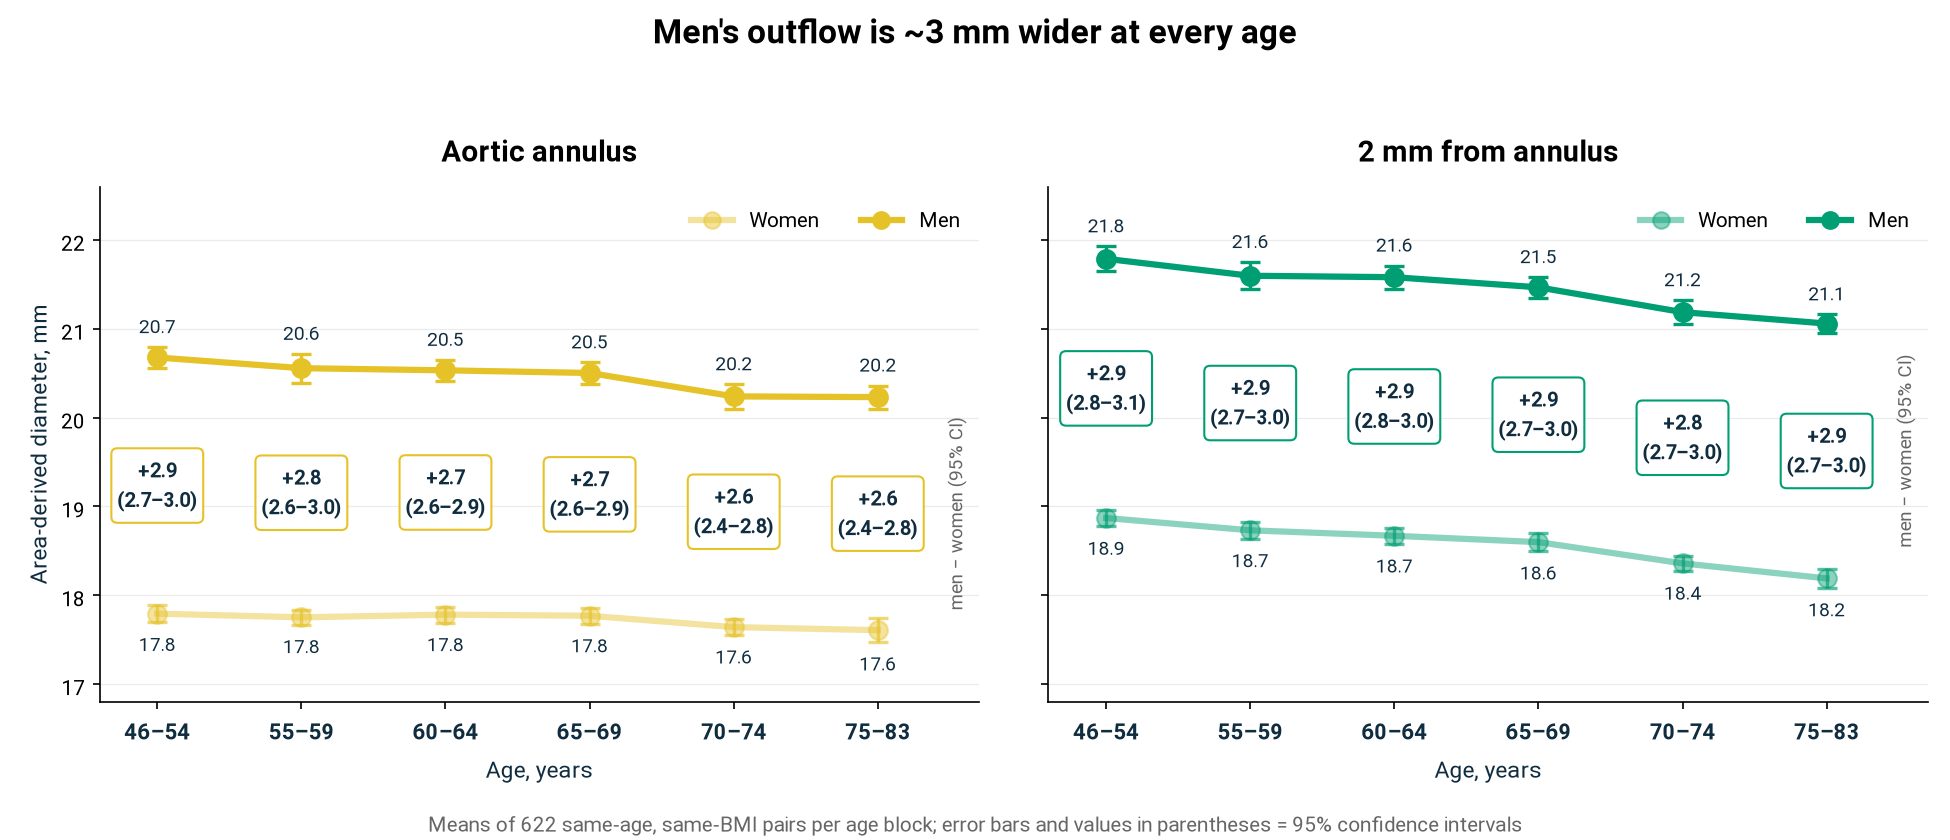
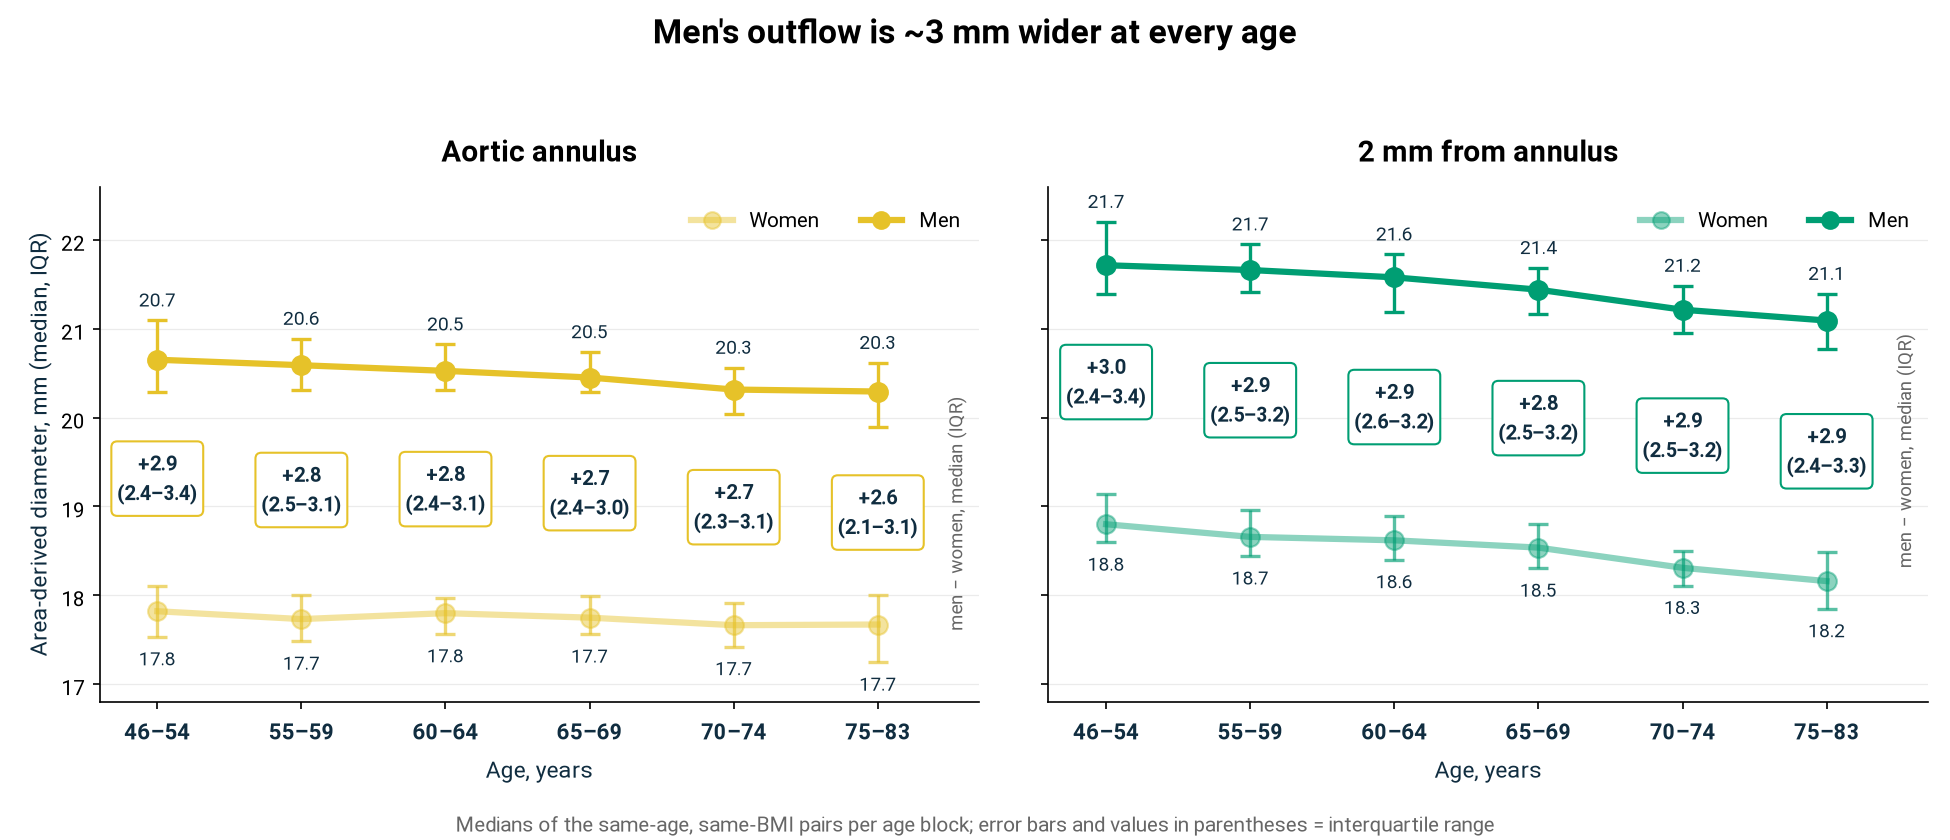
Size-by-age figure: median and IQR instead of mean and 95% CI

diff --git a/scripts/13_size_by_age_figure.py b/scripts/13_size_by_age_figure.py
@@ -1,8 +1,8 @@
 """STEP 6.10 — Annulus and LVOT (2 mm) diameter by age block, women vs men, in the house figure style.
 
-Same data as deck slide 6: mean area-derived diameter of the common-support pairs (same age and BMI in
-both sexes) per age block. Error bars = 95% CI of each sex's mean (t-based, over the pairs in the block, from
-lvot_all.csv); labels = paired men - women difference with its 95% CI (sexdiff_by_age_block.csv).
+Common-support pairs (same age and BMI in both sexes) per age block, from lvot_all.csv:
+points = median area-derived diameter per sex, error bars = interquartile range (25th-75th percentile);
+labels = median (IQR) of the paired men - women differences.
 Style: Roboto (assets/fonts), level colours (annulus yellow, 2 mm green), women lighter, men darker.
 Output: outputs/figures/analysis/fig_size_by_age.png
 Usage: python scripts/13_size_by_age_figure.py
@@ -15,7 +15,6 @@ matplotlib.use("Agg")
 import matplotlib.pyplot as plt
 import numpy as np
 import pandas as pd
-from scipy import stats
 from matplotlib import font_manager
 from matplotlib.lines import Line2D
 
@@ -36,32 +35,39 @@ P = L[L.sex == "F"].merge(L[L.sex == "M"], on=["age", "bmi"], suffixes=("_F", "_
 BLOCKS = [tuple(map(int, b.split("-"))) for b in B[B.measure == "ao_d_area"].age_block]
 
 
-def block_ci(m, sx):
-    """Mean and 95% CI half-width per age block, over the common-support pairs with both values present."""
-    out = []
+def block_stats(m):
+    """Per age block: median and IQR of each sex, and median (IQR) of the paired men - women difference."""
+    rows = []
     for lo, hi in BLOCKS:
-        q = P[(P.age >= lo) & (P.age <= hi)][[f"{m}_F", f"{m}_M"]].dropna()[f"{m}_{sx}"]
-        out.append((q.mean(), stats.t.ppf(.975, len(q) - 1) * q.std(ddof=1) / np.sqrt(len(q))))
-    return np.array(out)
+        q = P[(P.age >= lo) & (P.age <= hi)][[f"{m}_F", f"{m}_M"]].dropna()
+        dif = q[f"{m}_M"] - q[f"{m}_F"]
+        r = {"n": len(q)}
+        for sx in "FM":
+            r[f"q1_{sx}"], r[f"med_{sx}"], r[f"q3_{sx}"] = q[f"{m}_{sx}"].quantile([.25, .5, .75])
+        r["d_q1"], r["d_med"], r["d_q3"] = dif.quantile([.25, .5, .75])
+        rows.append(r)
+    return pd.DataFrame(rows)
+
+
 fig, axs = plt.subplots(1, 2, figsize=(13, 5.6), sharey=True)
 for ax, (m, title, col) in zip(axs, PANELS):
     d = B[B.measure == m].reset_index(drop=True)
+    st = block_stats(m)
     x = np.arange(len(d))
     for sx, lab in (("F", "Women"), ("M", "Men")):
-        mc = block_ci(m, sx)
-        y, ci = mc[:, 0], mc[:, 1]
-        assert np.allclose(y, d[f"mean_{sx}"].values, atol=1e-3), "block means differ from the analysis table"
-        ax.errorbar(x, y, yerr=ci, fmt="none", ecolor=col, alpha=min(1, ALPHA[sx] + .2), elinewidth=1.6, capsize=5,
-                    capthick=1.6, zorder=2)
+        y, q1, q3 = st[f"med_{sx}"].values, st[f"q1_{sx}"].values, st[f"q3_{sx}"].values
+        ax.errorbar(x, y, yerr=[y - q1, q3 - y], fmt="none", ecolor=col, alpha=min(1, ALPHA[sx] + .2), elinewidth=1.6,
+                    capsize=5, capthick=1.6, zorder=2)
         ax.plot(x, y, "-o", color=col, alpha=ALPHA[sx], lw=3, ms=9, mec=col, mfc=col, label=lab, zorder=3)
-        for xi, yi, ci_ in zip(x, y, ci):
-            ax.text(xi, yi + (ci_ + .1 if sx == "M" else -ci_ - .1), f"{yi:.1f}", ha="center",
+        for xi, yi, a1, a3 in zip(x, y, q1, q3):
+            ax.text(xi, a3 + .1 if sx == "M" else a1 - .1, f"{yi:.1f}", ha="center",
                     va="bottom" if sx == "M" else "top", fontsize=9, color=NAME_COL)
-    for xi, (lo, hi, df, cl, ch) in enumerate(zip(d.mean_F, d.mean_M, d.diff_M_minus_F, d.lo, d.hi)):
-        ax.text(xi, (lo + hi) / 2, f"+{df:.1f}\n({cl:.1f}–{ch:.1f})", ha="center", va="center", fontsize=9.5,
+    for xi, r in st.iterrows():
+        ax.text(xi, (r.q1_F + r.q3_M) / 2 if r.q3_F < r.q1_M else (r.med_F + r.med_M) / 2,
+                f"+{r.d_med:.1f}\n({r.d_q1:.1f}–{r.d_q3:.1f})", ha="center", va="center", fontsize=9.5,
                 color=NAME_COL, fontweight="bold", linespacing=1.2,
                 bbox=dict(boxstyle="round,pad=0.3", fc="white", ec=col, lw=1))
-    ax.text(len(d) - .55, (d.mean_F.iloc[-1] + d.mean_M.iloc[-1]) / 2, "men − women (95% CI)", ha="left", va="center",
+    ax.text(len(d) - .55, (d.mean_F.iloc[-1] + d.mean_M.iloc[-1]) / 2, "men − women, median (IQR)", ha="left", va="center",
             fontsize=9, color="0.4", rotation=90)
     ax.set_xticks(x)
     ax.set_xticklabels([b.replace("-", "–") for b in d.age_block], fontsize=10.5, color=NAME_COL, fontweight="bold")
@@ -74,10 +80,10 @@ for ax, (m, title, col) in zip(axs, PANELS):
     ax.legend(handles=[Line2D([], [], color=col, alpha=ALPHA["F"], lw=3, marker="o", ms=8, label="Women"),
                        Line2D([], [], color=col, alpha=ALPHA["M"], lw=3, marker="o", ms=8, label="Men")],
               fontsize=10, frameon=False, loc="upper right", ncol=2)
-axs[0].set_ylabel("Area-derived diameter, mm", fontsize=11, color=NAME_COL)
+axs[0].set_ylabel("Area-derived diameter, mm (median, IQR)", fontsize=11, color=NAME_COL)
 axs[0].set_ylim(16.8, 22.6)
 fig.suptitle("Men's outflow is ~3 mm wider at every age", fontsize=16, fontweight="bold", y=0.99)
-fig.text(0.5, 0.01, "Means of 622 same-age, same-BMI pairs per age block; error bars and values in parentheses = 95% confidence intervals",
+fig.text(0.5, 0.01, "Medians of the same-age, same-BMI pairs per age block; error bars and values in parentheses = interquartile range",
          ha="center", fontsize=10, color="0.4")
 fig.tight_layout(rect=(0, 0.04, 1, 0.95), w_pad=3)
 out = ROOT / "outputs/figures/analysis/fig_size_by_age.png"

diff --git a/docs/PIPELINE.md b/docs/PIPELINE.md
@@ -86,7 +86,7 @@ Code: [`scripts/03_analysis.py`](../scripts/03_analysis.py).
 | 6.7 Area methods illustration | One outline (LVOT 2 mm) drawn once per method, showing the diameters used and the assumed shape (area and % error in the legend): moment ellipse, Feret ellipse, minor–major axis ellipse (longest × perpendicular through the centre, as in a CT reading), echocardiographic area (approximation of the echo PLAX view). Method names in bold `#102D40`; assumed shapes in `#B94F00`; font Roboto from `assets/fonts/`. The two-view (PLAX × perpendicular) ellipse is hidden (`SHOW_TWO_VIEW = False`) but kept in the code and in the tables. Below: mean ± SD % difference by method and sex for the aortic annulus, 2 mm and 4 mm from the annulus (bars coloured by level, semi-transparent; women lighter, men darker; title "Estimating the elliptical LVOT area"). | [`scripts/07_area_methods_demo.py`](../scripts/07_area_methods_demo.py) → `fig_area_methods_demo.png` |
 | 6.8 Ellipticity by method | Ellipticity = major / minor for the three ellipse methods (moment axes; widest / narrowest calliper width; longest diameter through the centre / the one at 90°) at the annulus, 2 mm and 4 mm, by sex: median, IQR, 5th–95th percentile. Box plots in the same style as 6.7 (Roboto, level colours, women lighter, men darker). | [`scripts/10_ellipticity_methods.py`](../scripts/10_ellipticity_methods.py) → `ellipticity_methods.csv`, `fig_ellipticity_methods.png` |
 | 6.9 PLAX plane definitions (deferred, not presented) | Mitral centre = centre of the ellipse fitted to the mitral rim nodes (projected on their plane). Three PLAX plane definitions: A aortic axis + mitral centre (used in 3.7); B aortic axis + LV apex; C aortic centre + mitral centre + apex. For each: angle from A and from the LVOT minor axis, D_PLAX and echo-circle error at 2 mm. Runs on the subset + 30 pilot pairs (68 meshes). | [`scripts/11_plax_definitions.py`](../scripts/11_plax_definitions.py) → `plax_definitions.csv`, `fig_plax_definitions.png` |
-| 6.10 Size by age figure | Annulus and LVOT 2 mm area-derived diameter by age block, women vs men (common-support pairs), with 95% CIs of each mean and the paired men − women difference with its 95% CI. House style (Roboto, level colours, women lighter, men darker). | [`scripts/13_size_by_age_figure.py`](../scripts/13_size_by_age_figure.py) → `fig_size_by_age.png` |
+| 6.10 Size by age figure | Annulus and LVOT 2 mm area-derived diameter by age block, women vs men (common-support pairs): median and IQR per sex, and the median (IQR) of the paired men − women differences. House style (Roboto, level colours, women lighter, men darker). | [`scripts/13_size_by_age_figure.py`](../scripts/13_size_by_age_figure.py) → `fig_size_by_age.png` |
 
 ## STEP 7 — Write-up
 `WRITEUP.md`: methods summary, key numbers, figures, caveats. The results are filled in after the full run. The caveats section already states that **all measurements are end-diastolic** (no systolic meshes exist in this dataset).

diff --git a/README.md b/README.md
@@ -27,7 +27,7 @@ $PY scripts/09_save_outlines.py --all           # STEP 5.6 save 2D outlines per 
 $PY scripts/06_area_methods.py                  # STEP 6.6 outline area vs ellipse / echo circular area
 $PY scripts/07_area_methods_demo.py             # STEP 6.7 illustration of the five area estimates
 $PY scripts/10_ellipticity_methods.py           # STEP 6.8 ellipticity by method: median and IQR
-$PY scripts/13_size_by_age_figure.py            # STEP 6.10 size by age (house style, 95% CIs)
+$PY scripts/13_size_by_age_figure.py            # STEP 6.10 size by age (house style, median and IQR)
 $PY scripts/14_project_flowchart.py             # STEP 7c presentation flowchart
 NODE_PATH=<dir with pptxgenjs> node scripts/12_highlights_deck.js   # STEP 7b highlights deck -> outputs/LVOT_highlights.pptx
 ```
